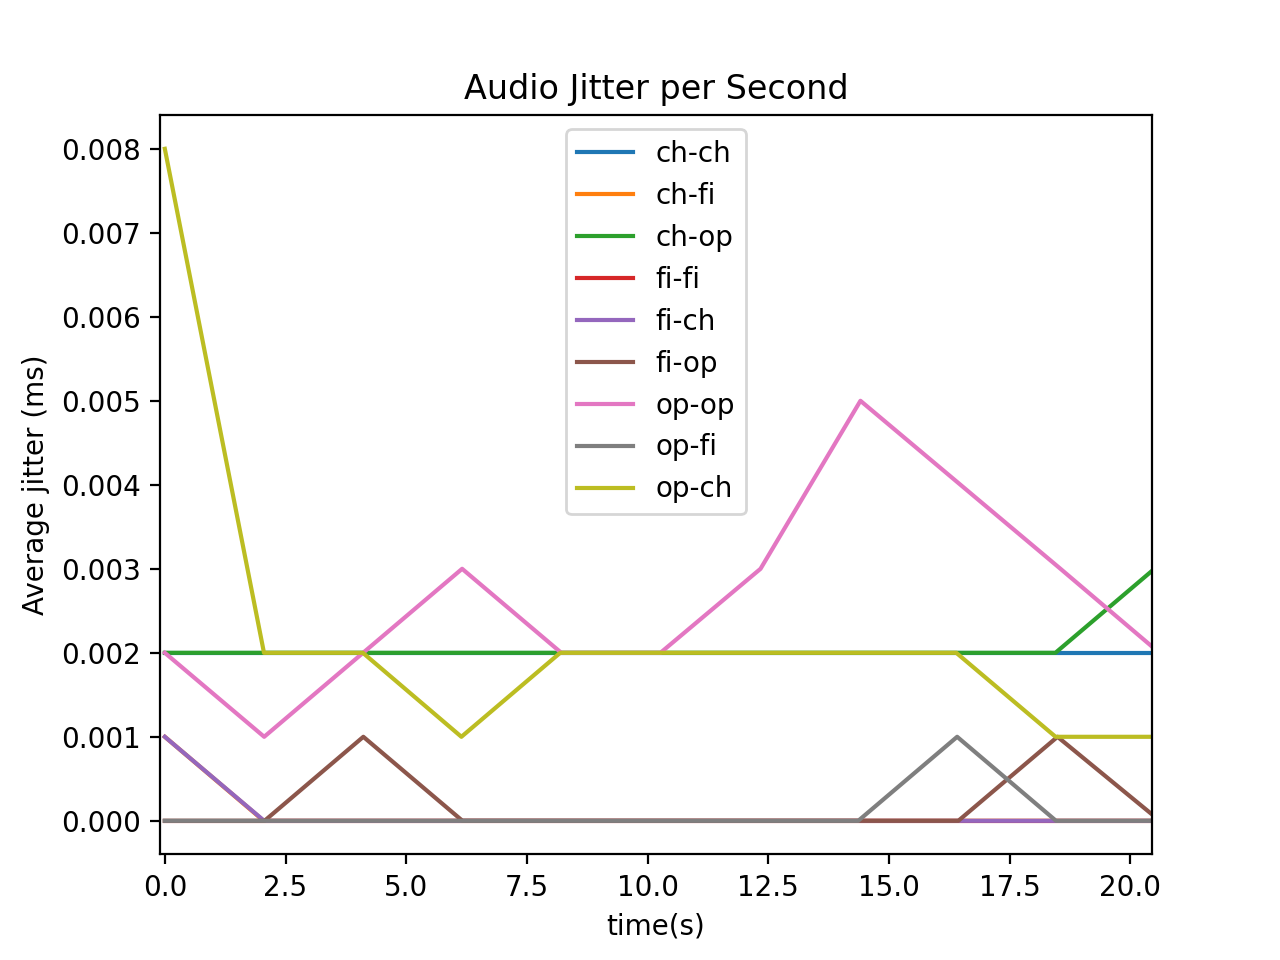
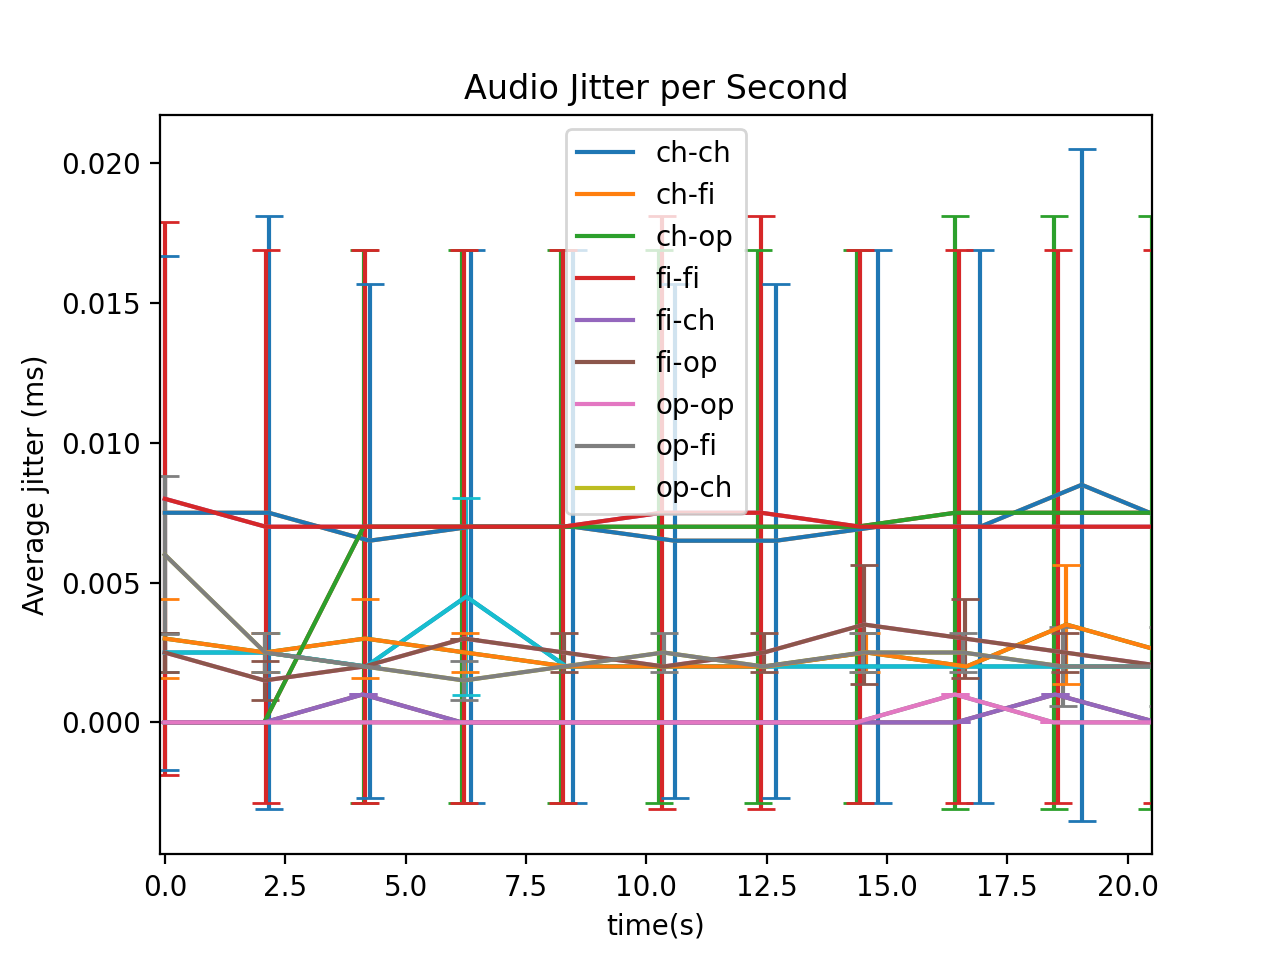
Add error bars

diff --git a/plotter.py b/plotter.py
@@ -89,6 +89,7 @@ def init_stdev_dict():
 
 def load_data(file):
     with open(file) as results_file:
+        print(f"Loading file: {file}")
         data = json.load(results_file)
         name = data['name']
         browsercomb = get_browsers(name)
@@ -246,20 +247,25 @@ def plot_rtt():
 
 def plot_fps():
     client1_values = []
+    client1_errors = []
     client2_values = []
+    client2_errors = []
     names = []
     width = 0.32
 
     for comb in tests:
         names.append(comb)
         client1_values.append(int(tests[comb]['client1']['video']['fps']))
+        client1_errors.append(int(std_devs[comb]['client1']['video']['fps']))
         client2_values.append(int(tests[comb]['client2']['video']['fps']))
+        client2_errors.append(int(std_devs[comb]['client2']['video']['fps']))
 
     ind = np.arange(len(names))
-    c1 = plt.bar(ind+width*1/2, client1_values, width,  label='client-1', color = 'dimgray')
-    c2 = plt.bar(ind+width*3/2, client2_values, width, label='client-2',  color = 'blue')
+    c1 = plt.bar(ind+width*1/2, client1_values, width, yerr=client1_errors, align='center', capsize=5, label='client-1', color = 'dimgray')
+    c2 = plt.bar(ind+width*3/2, client2_values, width, yerr = client2_errors, align='center', capsize=5, label='client-2',  color = 'blue')
     plt.xlabel('browser combinations')
     plt.xticks(ticks=ind+width, labels=names)
+
     plt.legend()
     plt.ylim(bottom=0)
     plt.ylim(top=40)
@@ -280,7 +286,8 @@ def plot_packets(type1, type2):
 
     for comb in tests:
         plt.plot(np.array(tests[comb]['client1']['timestamp']), np.array(tests[comb]['client1'][type1][type2]), label=comb)
-
+    for comb in tests:
+        plt.errorbar(np.array(tests[comb]['client1']['timestamp']), np.array(tests[comb]['client1'][type1][type2]), yerr=std_devs[comb]['client1'][type1][type2], capsize=5)
 
     plt.xlabel('time(s)')
 
@@ -308,21 +315,22 @@ def plot_packets(type1, type2):
 def plot_total_packets_sent(type):
     client1_values = []
     client2_values = []
+    client1_errors = []
     names = []
     width = 0.32
 
     for comb in tests:
         names.append(comb)
         client1_values.append(sum(tests[comb]['client1'][type]['packets_sent']))
-
-                
+        client1_errors.append(statistics.mean(std_devs[comb]['client1'][type]['packets_sent']))
+    
     ind = np.arange(len(names))
-    c1 = plt.bar(ind+width, client1_values, width, color = 'blue')
+    c1 = plt.bar(ind+width, client1_values, width, yerr=client1_errors, capsize=5, align='center', color = 'blue')
     plt.xlabel('browser combinations')
     plt.xticks(ticks=ind+width, labels=names)
     plt.ylim(bottom=0)
     autolabel(c1)
-    # plt.ylim(top=)        
+    # plt.ylim(top=)
     
     if (type == 'audio'):
         plt.title('Total audio packets sent')
@@ -342,6 +350,9 @@ def plot_jitter(type):
 
     for comb in tests:
         plt.plot(np.array(tests[comb]['client1']['timestamp']), np.array(tests[comb]['client1'][type]['jitter']), label=comb)
+    for comb in tests:
+        plt.errorbar(np.array(tests[comb]['client1']['timestamp']), np.array(tests[comb]['client1'][type]['jitter']), std_devs[comb]['client1'][type]['jitter'], capsize=5)
+
     plt.xlabel('time(s)')
     plt.ylabel('Average jitter (ms)')
     plt.legend()
@@ -365,9 +376,12 @@ def plot_frames(type):
 
     for comb in tests:
         plt.plot(np.array(tests[comb]['client1']['timestamp']), np.array(tests[comb]['client1']['video'][type]), label=comb)
+    for comb in tests:
+        plt.errorbar(np.array(tests[comb]['client1']['timestamp']), np.array(tests[comb]['client1']['video'][type]), yerr=std_devs[comb]['client1']['video'][type], capsize=5)
+
     plt.xlabel('time(s)')
     plt.ylabel('Frames per sec')
-    plt.legend() # ncol=2 for multi column
+    plt.legend(ncol=2) # ncol=2 for multi column
     plt.xlim([-0.1, plot_x_limit])
 
     if (type == 'frames_encoded'):
@@ -436,93 +450,101 @@ def autolabel(client):
                 ha='center', va='bottom')
 
 def avg_dicts(results):
-     
+
     # average timestamps
-    for dict in results:
-        for comb in dict:
+    for comb in tests:
+        i = 0
+        while (i < len(results[0]['ch-ch']['client1']['timestamp'])):
             avg_timestamps = []
-            for j in dict[comb]['client1']['timestamp']:
-                avg_timestamps.append(j)
+            for dict in results:
+                avg_timestamps.append(dict[comb]['client1']['timestamp'][i])
             avt = statistics.mean(avg_timestamps)
-            tests[comb]['client1']['timestamp'] = avt
-    
-    # average jitter
-    for dict in results:
-        for comb in dict:
+            std_devs[comb]['client1']['timestamp'].append(statistics.stdev(avg_timestamps))
+            tests[comb]['client1']['timestamp'].append(avt)
+            i+=1
+
+
+    for comb in tests:
+        i = 0           
+        while (i < len(results[0]['ch-ch']['client1']['video']['jitter'])):
             avg_video_jitter = []
             avg_audio_jitter = []
-            for j in dict[comb]['client1']['video']['jitter']:
-                avg_video_jitter.append(j)
-            for j in dict[comb]['client1']['audio']['jitter']:
-                avg_audio_jitter.append(j)
+            for dict in results:
+                avg_video_jitter.append(dict[comb]['client1']['video']['jitter'][i])
+                avg_audio_jitter.append(dict[comb]['client1']['audio']['jitter'][i])
             avj = statistics.mean(avg_video_jitter)
             aaj = statistics.mean(avg_audio_jitter)
-            tests[comb]['client1']['video']['jitter'] = avj
-            std_devs[comb]['client1']['video']['jitter'] = statistics.stdev(avg_video_jitter)
-            tests[comb]['client1']['audio']['jitter'] = aaj
-            std_devs[comb]['client1']['audio']['jitter'] = statistics.stdev(avg_audio_jitter)
 
-    
+            std_devs[comb]['client1']['video']['jitter'].append(statistics.stdev(avg_video_jitter))
+            std_devs[comb]['client1']['audio']['jitter'].append(statistics.stdev(avg_audio_jitter))
+            tests[comb]['client1']['video']['jitter'].append(avj)
+            tests[comb]['client1']['audio']['jitter'].append(aaj)
+            i+=1
+
+
     # average packets sent
-    for dict in results:
-        for comb in dict:
+    for comb in tests:
+        i = 0           
+        while (i < len(results[0]['ch-ch']['client1']['video']['packets_sent'])): # video and audio have same length
             avg_v_packets_sent = []
             avg_a_packets_sent = []
-            for j in dict[comb]['client1']['video']['packets_sent']:
-                avg_v_packets_sent.append(j)
-            for j in dict[comb]['client1']['audio']['packets_sent']:
-                avg_a_packets_sent.append(j)
+            for dict in results:
+                avg_v_packets_sent.append(dict[comb]['client1']['video']['packets_sent'][i])
+                avg_a_packets_sent.append(dict[comb]['client1']['audio']['packets_sent'][i])
             avs = statistics.mean(avg_v_packets_sent)
             aas = statistics.mean(avg_a_packets_sent)
-            tests[comb]['client1']['video']['packets_sent'] = avs
-            std_devs[comb]['client1']['video']['packets_sent'] = statistics.stdev(avg_v_packets_sent)
-            tests[comb]['client1']['audio']['packets_sent'] = aas
-            std_devs[comb]['client1']['audio']['packets_sent'] = statistics.stdev(avg_a_packets_sent)
+            std_devs[comb]['client1']['video']['packets_sent'].append(statistics.stdev(avg_v_packets_sent))
+            std_devs[comb]['client1']['audio']['packets_sent'].append(statistics.stdev(avg_a_packets_sent))
+            tests[comb]['client1']['video']['packets_sent'].append(avs)
+            tests[comb]['client1']['audio']['packets_sent'].append(aas)
+            i+=1
 
-    
-    # average frames
-    for dict in results:
-        avg_fps_c1 = []
-        avg_fps_c2 = []
-        for comb in dict:
+    for comb in tests:
+        i = 0          
+        while (i < len(results[0]['ch-ch']['client1']['video']['frames_encoded'])):
             avg_frames_enc = []
             avg_frames_dec = []
-            for j in dict[comb]['client1']['video']['frames_encoded']:
-                avg_frames_enc.append(j)
-            for j in dict[comb]['client1']['video']['frames_decoded']:
-                avg_frames_dec.append(j)
-            for j in dict[comb]['client1']['video']['fps']:
-                avg_fps_c1.append(int(j))
-            for j in dict[comb]['client2']['video']['fps']:
-                avg_fps_c2.append(int(j))
+            for dict in results:
+                avg_frames_enc.append(dict[comb]['client1']['video']['frames_encoded'][i])
+                avg_frames_dec.append(dict[comb]['client1']['video']['frames_decoded'][i])
             afe = statistics.mean(avg_frames_enc)
             afd = statistics.mean(avg_frames_dec)
-            tests[comb]['client1']['video']['frames_encoded'] = afe
-            std_devs[comb]['client1']['video']['frames_encoded'] = statistics.stdev(avg_frames_enc)
-            tests[comb]['client1']['video']['frames_decoded'] = afd
-            std_devs[comb]['client1']['video']['frames_decoded'] = statistics.stdev(avg_frames_dec)
-        afps1 = statistics.mean(avg_fps_c1)
+
+            std_devs[comb]['client1']['video']['frames_encoded'].append(statistics.stdev(avg_frames_enc))
+            std_devs[comb]['client1']['video']['frames_decoded'].append(statistics.stdev(avg_frames_dec))
+            tests[comb]['client1']['video']['frames_encoded'].append(afe)
+            tests[comb]['client1']['video']['frames_decoded'].append(afd)
+            i+=1
+ 
+        avg_fps_c1 = []
+        avg_fps_c2 = []
+        for res in results:
+            avg_fps_c1.append(int(res[comb]['client1']['video']['fps']))
+            avg_fps_c2.append(int(res[comb]['client2']['video']['fps']))
+        afps1 = statistics.mean(avg_fps_c1) 
         afps2 = statistics.mean(avg_fps_c2)
         tests[comb]['client1']['video']['fps'] = afps1
         tests[comb]['client2']['video']['fps'] = afps2
         std_devs[comb]['client1']['video']['fps'] = statistics.stdev(avg_fps_c1)
         std_devs[comb]['client2']['video']['fps'] = statistics.stdev(avg_fps_c2)
 
+
 if __name__ == "__main__":
     os.makedirs('plots/', exist_ok=True)
     results = []
     
-    # do manually for all run dirs
-    os.chdir("run_1")
-    init_dict()
-    get_results()
-    results.append(tests.copy())
-    tests.clear()
+    resultdir = glob.glob("results/*")
+    for rundir in resultdir:
+        print(f"Checking {rundir}")
+        os.chdir(f"{rundir}")
+        init_dict()
+        get_results()
+        results.append(tests.copy())
+        tests.clear()
+        os.chdir("../..")
 
     # Reinit dict for avf results
     init_dict()
-    get_results()
-    results.append(tests.copy())
     
     # Reset tests to get averages and then plot it
     tests.clear()
@@ -536,12 +558,11 @@ if __name__ == "__main__":
     plot_x_limit = min(timestamp_min)
     # Plotting all results
     # plot_rtt()
-    os.chdir("..")
     plot_fps()
     plot_packets('video', 'packets_sent')
-    plot_packets('video', 'packets_lost')
-    plot_packets('audio', 'packets_sent')
-    plot_packets('audio', 'packets_lost')
+    # plot_packets('video', 'packets_lost') #! don't use, don't record value anymore in averaging
+    plot_packets('audio', 'packets_sent') 
+    # plot_packets('audio', 'packets_lost') #! don't use, don't record value anymore in averaging
     plot_jitter('audio')
     plot_jitter('video')
     plot_frames('frames_encoded')
